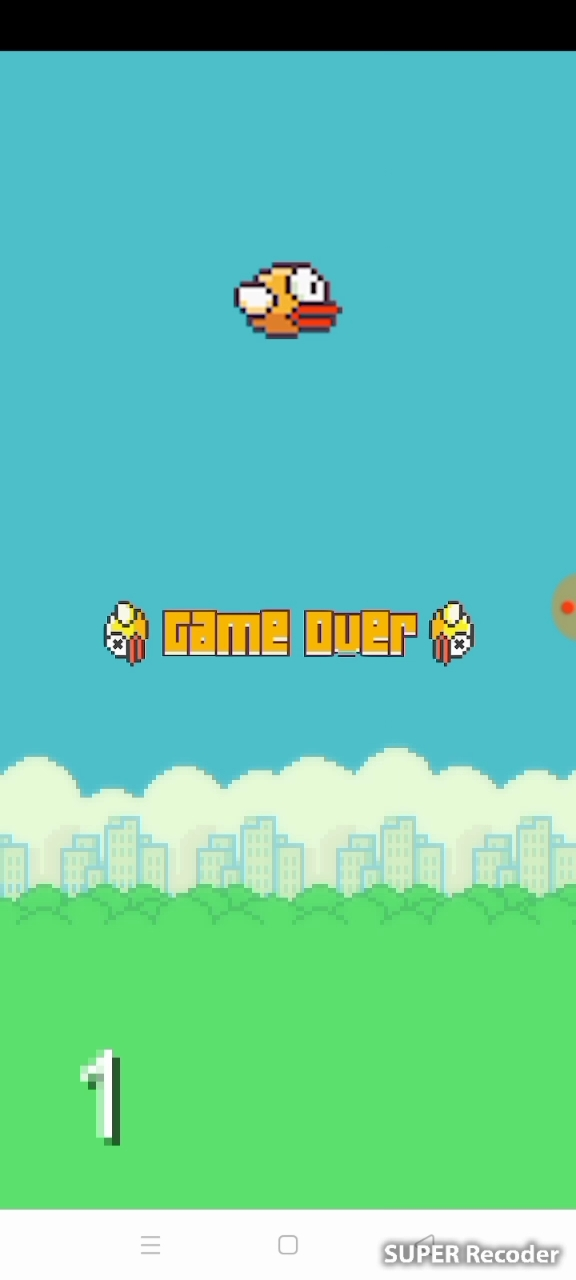
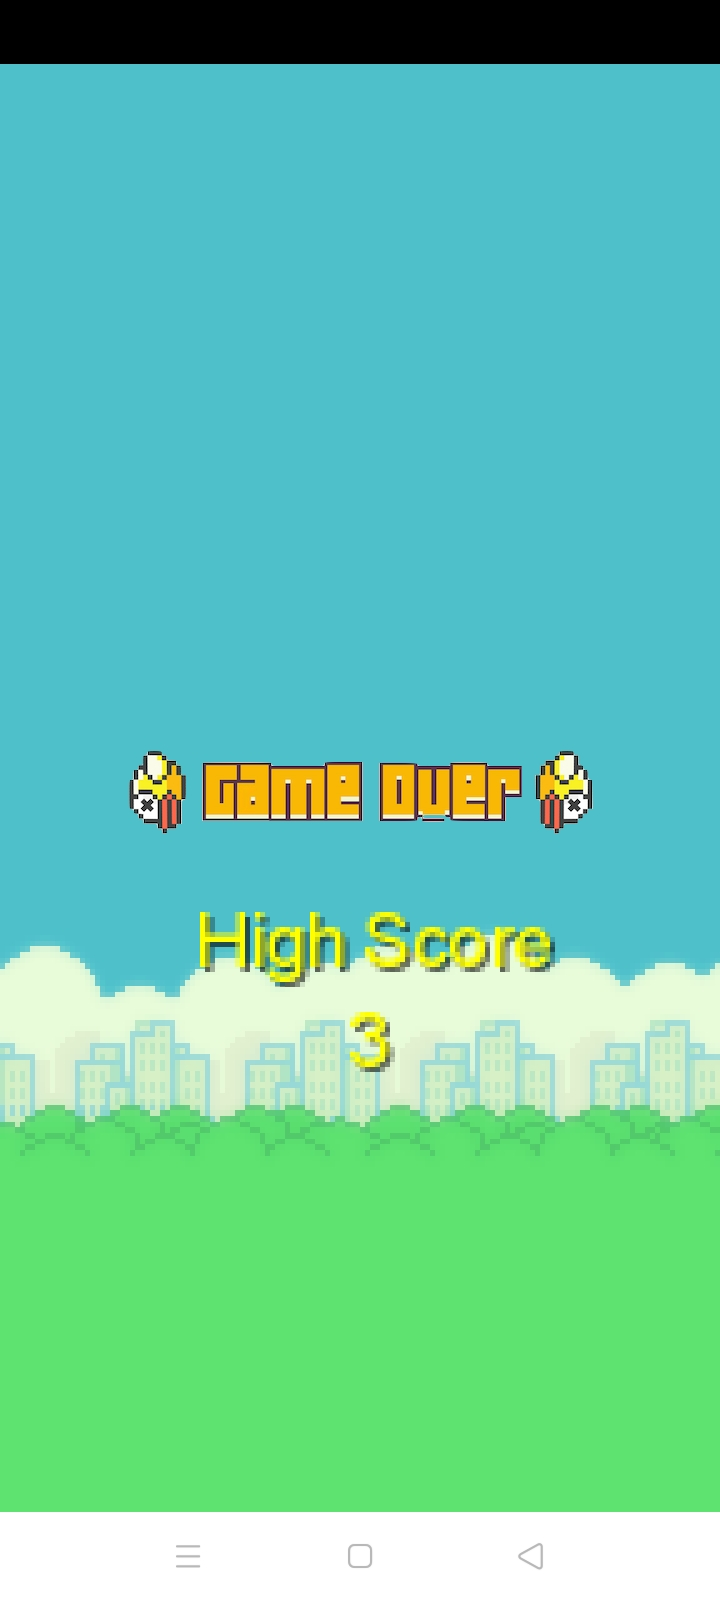
HighScore,SharedPreference and sound added

diff --git a/core/src/com/zobaer53/flappybird/FlappyBird.java b/core/src/com/zobaer53/flappybird/FlappyBird.java
@@ -1,7 +1,11 @@
 package com.zobaer53.flappybird;
 
 import com.badlogic.gdx.ApplicationAdapter;
+import com.badlogic.gdx.Audio;
 import com.badlogic.gdx.Gdx;
+import com.badlogic.gdx.Preferences;
+import com.badlogic.gdx.audio.Music;
+import com.badlogic.gdx.audio.Sound;
 import com.badlogic.gdx.graphics.Color;
 import com.badlogic.gdx.graphics.Texture;
 import com.badlogic.gdx.graphics.g2d.BitmapFont;
@@ -13,8 +17,13 @@ import java.util.Random;
 
 
 public class FlappyBird extends ApplicationAdapter {
+	Preferences preferences ;
+
 	SpriteBatch batch;
 	Texture background;
+
+	Music music;
+	Sound sound;
 
 	//ShapeRenderer shapeRenderer;
 
@@ -26,8 +35,10 @@ public class FlappyBird extends ApplicationAdapter {
 	float velocity = 0;
 	Circle birdCircle;
 	int score = 0;
+	int highScore ;
 	int scoringTube = 0;
 	BitmapFont font;
+	BitmapFont font1;
 
 	int gameState = 0;
 	float gravity = 2;
@@ -46,19 +57,37 @@ public class FlappyBird extends ApplicationAdapter {
 	Rectangle[] bottomTubeRectangles;
 
 
-
+	@Override
+	public void dispose() {
+		super.dispose();
+		music.dispose();
+		sound.dispose();
+	}
 
 	@Override
 	public void create () {
+		preferences = Gdx.app.getPreferences("flappybird");
+		highScore = preferences.getInteger("highscore",0);
 		batch = new SpriteBatch();
 		background = new Texture("bg.png");
 		gameover = new Texture("gameover.png");
+
+		music= Gdx.audio.newMusic(Gdx.files.internal("android_assets_music.mp3"));
+		music.setLooping(true);
+		music.setVolume(0.1f);
+		music.play();
+
+        sound = Gdx.audio.newSound(Gdx.files.internal("android_assets_sfx_wing.ogg"));
 
 
 		birdCircle = new Circle();
 		font = new BitmapFont();
 		font.setColor(Color.WHITE);
 		font.getData().setScale(10);
+
+		font1 = new BitmapFont();
+		font1.setColor(Color.YELLOW);
+		font1.getData().setScale(5);
 
 		birds = new Texture[2];
 		birds[0] = new Texture("bird.png");
@@ -98,10 +127,13 @@ public class FlappyBird extends ApplicationAdapter {
 	@Override
 	public void render () {
 
+
 		batch.begin();
 		batch.draw(background, 0, 0, Gdx.graphics.getWidth(), Gdx.graphics.getHeight());
 
 		if (gameState == 1) {
+			batch.draw(birds[flapState], Gdx.graphics.getWidth() / 2 - birds[flapState].getWidth() / 2, birdY);
+
 
 			if (tubeX[scoringTube] < Gdx.graphics.getWidth() / 2) {
 
@@ -122,6 +154,7 @@ public class FlappyBird extends ApplicationAdapter {
 			}
 
 			if (Gdx.input.justTouched()) {
+				sound.play(0.5f);
 
 				velocity = -30;
 
@@ -164,6 +197,14 @@ public class FlappyBird extends ApplicationAdapter {
 				gameState = 2;
 
 			}
+			font.draw(batch, String.valueOf(score), 100, 200);
+			if(score>highScore){
+
+				highScore=score;
+				preferences.putInteger("highscore",highScore);
+				preferences.flush();
+			}
+
 
 		} else if (gameState == 0) {
 
@@ -176,7 +217,11 @@ public class FlappyBird extends ApplicationAdapter {
 
 		} else if (gameState == 2) {
 
+
 			batch.draw(gameover, Gdx.graphics.getWidth() / 2 - gameover.getWidth() / 2, Gdx.graphics.getHeight() / 2 - gameover.getHeight() / 2);
+			font1.draw(batch,"High Score", 200, 600);
+
+			font1.draw(batch, String.valueOf(highScore), 350, 500);
 
 			if (Gdx.input.justTouched()) {
 
@@ -195,9 +240,7 @@ public class FlappyBird extends ApplicationAdapter {
 			flapState = 0;
 		}
 
-		batch.draw(birds[flapState], Gdx.graphics.getWidth() / 2 - birds[flapState].getWidth() / 2, birdY);
 
-		font.draw(batch, String.valueOf(score), 100, 200);
 
 		birdCircle.set(Gdx.graphics.getWidth() / 2, birdY + birds[flapState].getHeight() / 2, birds[flapState].getWidth() / 2);
 
